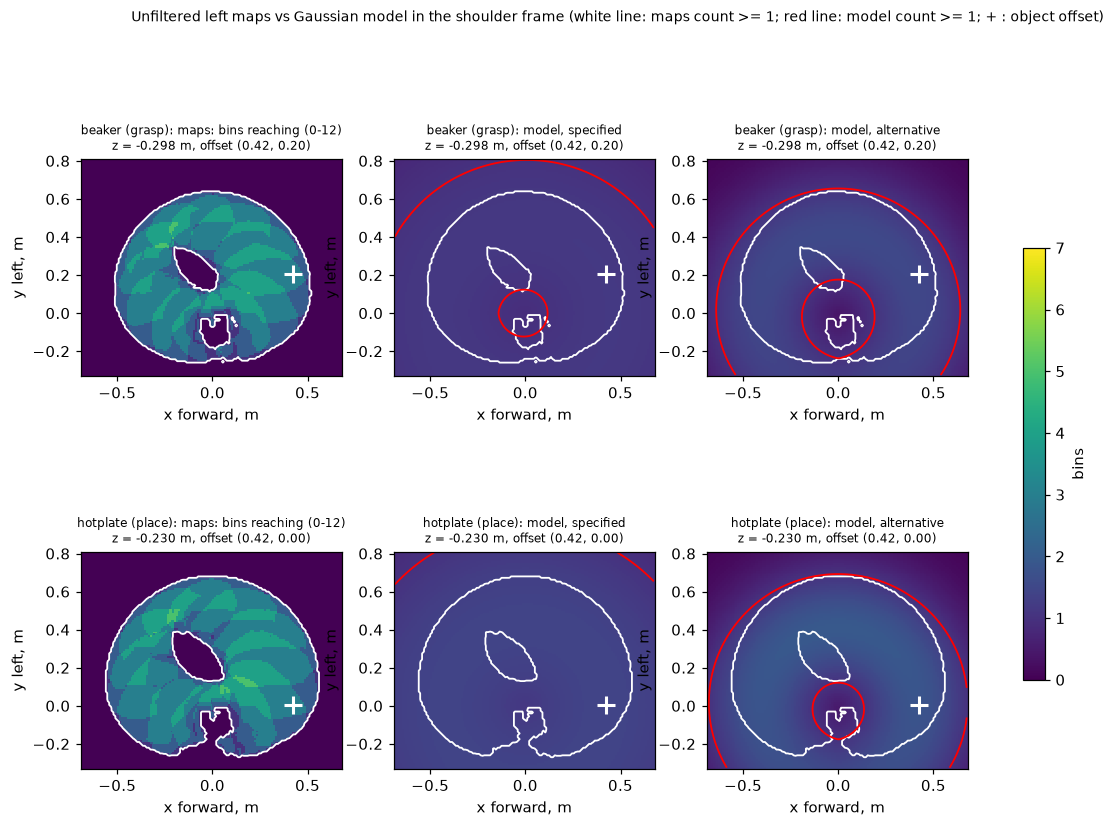
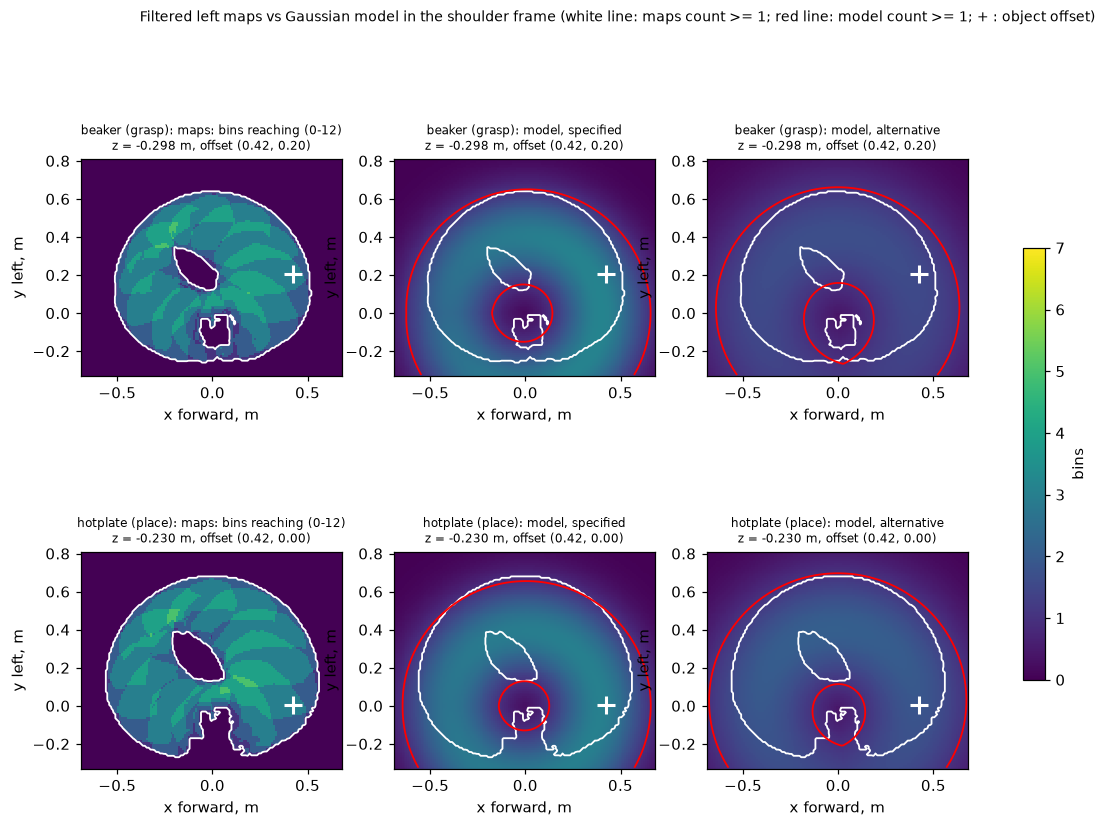
Gaussian reach model: rerun on the filtered maps (data/reach_map_before_bench); both forms still miss precision and within-1-bin; stopped before the inverse

diff --git a/experiments/reach_model_fit.py b/experiments/reach_model_fit.py
@@ -1,4 +1,4 @@
-"""Fit the Gaussian reach model (src/reach_model.py) to the unfiltered left maps (data/reach_map) and score it. numpy/scipy only, no MuJoCo.
+"""Fit the Gaussian reach model (src/reach_model.py) to the filtered left maps (data/reach_map_before_bench) and score it. numpy/scipy only, no MuJoCo.
 
     source .venv/bin/activate && python experiments/reach_model_fit.py [--out docs/reports/reach_model_fit.json]
 
@@ -21,7 +21,7 @@ sys.path.insert(0, str(PROJECT_ROOT))
 
 from src.reach_model import PARAM_NAMES, predict_count  # noqa: E402
 
-MAPS_DIR = PROJECT_ROOT / "data" / "reach_map"        # the unfiltered maps (no bench)
+MAPS_DIR = PROJECT_ROOT / "data" / "reach_map_before_bench"        # the filtered maps (the bench is in the maps)
 CUBE = 0.01
 MAX_D = 1.5                                            # m: the evaluation region (the maps' boxes are smaller, so every cell qualifies)
 

diff --git a/experiments/reach_model_plot.py b/experiments/reach_model_plot.py
@@ -75,7 +75,7 @@ def main():
             ax.set_xlabel("x forward, m")
             ax.set_ylabel("y left, m")
     fig.colorbar(im, ax=axes, label="bins", shrink=0.6)
-    fig.suptitle("Unfiltered left maps vs Gaussian model in the shoulder frame (white line: maps count >= 1; red line: model count >= 1; + : object offset)", fontsize=9)
+    fig.suptitle("Filtered left maps vs Gaussian model in the shoulder frame (white line: maps count >= 1; red line: model count >= 1; + : object offset)", fontsize=9)
     fig.savefig(PROJECT_ROOT / "docs/reports/reach_model_slices.png", dpi=110, bbox_inches="tight")
     print({k: [round(float(v), 3) for v in o] for k, o in offs.items()})
 

diff --git a/src/reach_model.py b/src/reach_model.py
@@ -1,4 +1,4 @@
-"""A small Gaussian model of the reach maps (left arm, unfiltered maps): how many of the 12 approach bins reach a grasp point.
+"""A small Gaussian model of the reach maps (left arm, filtered maps): how many of the 12 approach bins reach a grasp point.
 
 Standalone: not used by the pipeline or the stance selection.
 

diff --git a/docs/reports/reach_model.md b/docs/reports/reach_model.md
@@ -1,18 +1,18 @@
 # Gaussian reach model: Part A (maps) and Part B (fit) — targets missed, stopped
 
-Written for: David (approved task: fit a Gaussian model of the unfiltered reach maps, left arm).
+Written for: David (task: fit a Gaussian model of the reach maps, left arm). **Filtered maps only** (`data/reach_map_before_bench`, the bench is in the maps), as David instructed; the task text said "unfiltered", the instruction since then overrides it. An earlier run on the unfiltered maps was replaced by this one.
 
-**Outcome: the specified model and the one alternative both miss two of the three targets. Per the task, I stopped. Part C (analytic inverse, `src/reach_model.py` stance finder, scene tests) was not started.**
+**Outcome: the specified model and the one alternative both miss two of the three targets. Per the task, I stopped. Part C (analytic inverse, stance finder in `src/reach_model.py`, scene tests) was not started.**
 
 ## Part A: the maps (read directly from the .npz files, no stance-code lookup)
 
-- Source: `data/reach_map/left_bin0..11.npz` (the unfiltered maps, no bench).
+- Source: `data/reach_map_before_bench/left_bin0..11.npz`.
 - Each file stores 5 mm voxels (packed bits). A 1 cm cube is reachable when all 8 of its voxels are (the maps' cube rule).
-- Each bin has its own bounding box (voxel shapes from 150 x 148 x 204 up to 188 x 108 x 200). Every origin is a multiple of 1 cm, so the 12 maps sit on one common 1 cm grid.
-- Common grid: **137 x 114 x 102 cubes, 1 cm**, origin (-0.69, -0.33, -0.51) m in the shoulder frame. Extent x -0.69 to 0.68, y -0.33 to 0.81, **z -0.51 to +0.51 m** (the height range). 1,593,036 cells; 646,056 reachable by at least one bin.
-- Count per cell = number of bins (0 to 12) whose map holds the cube. **The maximum is 7**, not 12. Histogram of counts 0..7: 946,980 / 48,993 / 148,808 / 248,340 / 160,987 / 32,956 / 5,802 / 170.
-- Indexing: shoulder frame, x forward along the heading, y left, z up. Offset of a grasp point: horizontal distance d = hypot(x, y), bearing theta = atan2(y, x) relative to the heading, vertical offset z (negative = below the shoulder). The reachable cells span d = 0.007 to 0.74 m and bearings over the full circle (-180 to 180 deg; mean +45 deg).
-- A heading change turns the world offset by -heading before the lookup (as `stance_finder._region`). That shifts theta and leaves d and z unchanged, so a model of (d, theta, z) is heading-independent once the caller converts world positions to the shoulder-frame offset. Confirmed by the lookup code; no heading-dependent term appears in the maps.
+- Each bin has its own bounding box. Every origin is a multiple of 1 cm, so the 12 maps sit on one common 1 cm grid.
+- Common grid: **137 x 114 x 102 cubes, 1 cm**, origin (-0.69, -0.33, -0.51) m in the shoulder frame. Extent x -0.69 to 0.68, y -0.33 to 0.81, **z -0.51 to +0.51 m** (the height range). 1,593,036 cells; 635,093 reachable by at least one bin.
+- Count per cell = number of bins (0 to 12) whose map holds the cube. **The maximum is 7**, not 12. Histogram of counts 0..7: 957,943 / 52,739 / 152,743 / 240,981 / 153,204 / 30,014 / 5,300 / 112.
+- Indexing: shoulder frame, x forward along the heading, y left, z up. Offset of a grasp point: horizontal distance d = hypot(x, y), bearing theta = atan2(y, x) relative to the heading, vertical offset z (negative = below the shoulder). The reachable cells span d = 0.007 to 0.74 m and bearings over the full circle (mean +46 deg).
+- A heading change turns the world offset by -heading before the lookup (as `stance_finder._region`). That shifts theta and leaves d and z unchanged, so a model of (d, theta, z) is heading-independent once the caller converts world positions to the shoulder-frame offset.
 - Every cell lies within 0.75 m horizontally, so the "within 1.5 m" evaluation region is the whole grid.
 
 ## Part B: fit
@@ -24,46 +24,46 @@ Written for: David (approved task: fit a Gaussian model of the unfiltered reach 
 
 | parameter | unit | specified form | alternative (constant angular centre) |
 |---|---|---|---|
-| a0 (peak count at z = 0) | bins | 2.478 | 3.429 |
-| a1 | bins/m | 4.499 | 6.402 |
-| b0 (radial centre at z = 0) | m | 0.2714 | 0.3728 |
-| b1 | m/m | -0.6520 | -0.1448 |
-| c0 (radial width at z = 0) | m | 0.6514 | 0.3079 |
-| c1 | m/m | -0.9296 | -0.1905 |
-| e0 (angular width at z = 0) | rad | 71.04 | 4.393 |
-| e1 | rad/m | 163.37 | -9.246 |
-| th0 (angular centre) | rad | 0 (fixed) | 1.5776 (90.4 deg) |
-| RMSE on fit slices | bins | 1.299 | 1.180 |
+| a0 (peak count at z = 0) | bins | 2.5502 | 3.7235 |
+| a1 | bins/m | -1.9868 | 6.9847 |
+| b0 (radial centre at z = 0) | m | 0.3609 | 0.3869 |
+| b1 | m/m | -0.1335 | -0.0781 |
+| c0 (radial width at z = 0) | m | 0.3028 | 0.2907 |
+| c1 | m/m | 0.2092 | -0.2097 |
+| e0 (angular width at z = 0) | rad | 22.18 | 3.291 |
+| e1 | rad/m | 54.75 | -6.926 |
+| th0 (angular centre) | rad | 0 (fixed) | 1.6705 (95.7 deg) |
+| RMSE on fit slices | bins | 1.323 | 1.145 |
 
-In the specified form the angular width came out at 71 rad, so the fit switches the angular term off (the reachable cells are not concentrated around the heading).
+In the specified form the angular width came out at 22 rad, so the fit switches the angular term off (the reachable cells are not concentrated around the heading).
 
 ### Results
 
 | | precision | recall | within 1 bin |
 |---|---|---|---|
 | target | >= 80% | >= 80% | >= 80% |
-| specified, fitted slices | 62.3% | 88.3% | 39.3% |
-| specified, held-out slices | 62.1% | 88.2% | 39.4% |
-| alternative, fitted slices | 73.3% | 88.0% | 44.9% |
-| alternative, held-out slices | 73.3% | 88.0% | 44.9% |
+| specified, fitted slices | 64.3% | 89.6% | 41.3% |
+| specified, held-out slices | 63.6% | 89.5% | 41.3% |
+| alternative, fitted slices | 73.7% | 85.3% | 46.6% |
+| alternative, held-out slices | 73.7% | 85.2% | 46.6% |
 
 Missed targets, plainly:
-- **Precision**: specified short by 17.7 points (fitted) and 17.9 (held-out). Alternative short by 6.7 points on both.
-- **Within 1 bin**: specified short by 40.7 points (fitted) and 40.6 (held-out). Alternative short by 35.1 points (fitted) and 35.1 (held-out).
-- **Recall** met in both (88%).
-- Fitted and held-out agree to under 0.2 points, so the miss is the model's form, not overfitting.
+- **Precision**: specified short by 15.7 points (fitted) and 16.4 (held-out). Alternative short by 6.3 points on both.
+- **Within 1 bin**: specified short by 38.7 points on both. Alternative short by 33.5 (fitted) and 33.4 (held-out).
+- **Recall** met in both (89.6% and 85.3% fitted).
+- Fitted and held-out agree to under 1 point, so the miss is the model's form, not overfitting.
 
 ### The one alternative
 
-I added a constant angular centre th0 (9 parameters). Why: the reachable cells have a mean bearing of +45 deg (the left arm reaches around its own shoulder), while the specified form centres the angular term on 0. The fit moved th0 to about 90 deg, widened the angular term, and gained 11 points of precision and 5.6 points of within-1-bin. It still misses the same two targets. No further tuning was done.
+I added a constant angular centre th0 (9 parameters). Why: the reachable cells have a mean bearing of +46 deg (the left arm reaches around its own shoulder), while the specified form centres the angular term on 0. The fit moved th0 to about 96 deg and widened the angular term. Precision rose 9.4 points and within-1-bin 5.2 points, but recall fell 4.3 points. It still misses the same two targets. No further tuning was done.
 
 ### What the picture shows
 
-`reach_model_slices.png`: for the standard stance (staging position and yaw, pedestal 0.155 m) the beaker's grasp point is at shoulder-frame offset (0.425 forward, 0.204 left, 0.298 below) and the hotplate's place point at (0.425, 0.004, -0.230). The maps are a ring around the shoulder with a hole in the middle, a roughly flat count of 2 to 4 across the ring, sharp outer and inner edges, and sector-shaped patches (each bin covers a different part of the ring). The model gives a smooth bump; its count = 1 edge lies outside the maps' outer edge and it also fills the ring's inner hole region differently. Both offsets sit inside the maps' ring.
+`reach_model_slices.png`: for the standard stance (staging position and yaw, pedestal 0.155 m) the beaker's grasp point is at shoulder-frame offset (0.425 forward, 0.204 left, 0.298 below) and the hotplate's place point at (0.425, 0.004, -0.230); the hotplate height is the bench top + 0.068 m + the beaker's grasp fraction. The maps are a ring around the shoulder with a hole in the middle, a roughly flat count of 2 to 4 across the ring, sharp outer and inner edges, and sector-shaped patches (each bin covers a different part of the ring). The model gives a smooth bump; its count >= 1 edge lies outside the maps' outer edge, and the inner hole is a small circle instead of the maps' off-centre shape. Both offsets sit inside the maps' ring.
 
 ## Decisions needed
 
-1. Accept a looser set of targets, or change the model form (the ring with a flat top and a hole is not a single Gaussian in d). I did not try anything else, as instructed.
+1. Accept looser targets, or change the model form (a ring with a flat top and a hole is not a single Gaussian in d). I did not try anything else, as instructed.
 2. Whether to go on to Part C with this model anyway. Not started.
 
 ## Not done
@@ -79,4 +79,4 @@ I added a constant angular centre th0 (9 parameters). Why: the reachable cells h
 - `experiments/reach_model_plot.py` (the PNG)
 - `docs/reports/reach_model_fit.json` (parameters, facts, scores)
 - `docs/reports/reach_model_slices.png`
-- Fit log: `data/logs/reach_model_fit_20261108_022856.log` (git-ignored)
+- Fit log: `data/logs/reach_model_fit_filtered_20261108_023447.log` (git-ignored)

diff --git a/docs/progress.md b/docs/progress.md
@@ -683,4 +683,4 @@ RUN (Nov 7): nudge ladder (control + 100) in tmux nudge; log data/logs/nudge_202
 TASK 2026-11-08 (David, Gaussian reach model; unfiltered maps data/reach_map; left arm; no push, not main, no sweeps, no change to stance selection/tests/baselines/maps): A read maps directly; B fit 8-parameter Gaussian count(d, theta, z) on even z-slices, test on odd; targets precision/recall >= 80%, within-1-bin >= 80%; if any miss: ONE alternative, report both, STOP (no Part C); C analytic inverse + src/reach_model.py + scene tests (standard + moved layout, full check on candidates; one MuJoCo process, no sweep). Deliverable docs/reports/reach_model.md + PNG + commit.
 PLAN: A+B in experiments/reach_model_fit.py (numpy only) -> docs/reports/reach_model_fit.json + PNG; report; commit. C only if all targets met.
 CURRENT: A.
-DONE 2026-11-08 (Gaussian reach model, Parts A and B; STOPPED, Part C not started): unfiltered left maps merged to a 137x114x102 grid of 1 cm cubes (max count 7). Specified form: precision 62%, recall 88%, within-1-bin 39% (held-out same); alternative (constant angular centre th0 = 90 deg): 73%, 88%, 45%. Both miss precision (>=80%) and within-1-bin (>=80%). Report docs/reports/reach_model.md, fit JSON, PNG. Decisions for David in the report. Not pushed.
+DONE 2026-11-08 (Gaussian reach model, Parts A and B; STOPPED, Part C not started; rerun on the FILTERED maps data/reach_map_before_bench per David, replacing a first unfiltered run): left maps merged to a 137x114x102 grid of 1 cm cubes (max count 7). Specified form: precision 64%, recall 90%, within-1-bin 41% (held-out 64/90/41); alternative (constant angular centre th0 = 96 deg): 74%, 85%, 47%. Both miss precision (>=80%) and within-1-bin (>=80%). Report docs/reports/reach_model.md, fit JSON, PNG. Decisions for David in the report. Not pushed.
